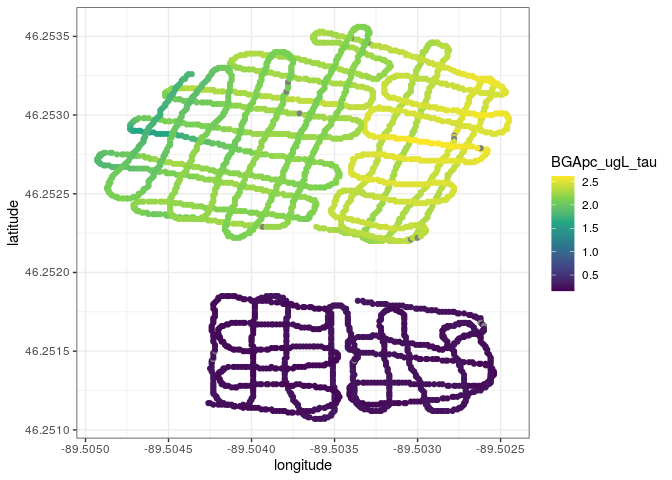
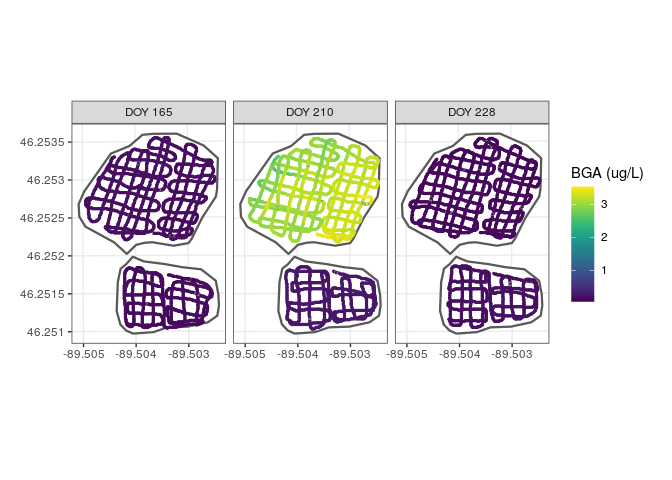
add spatial data plotting function

diff --git a/README.md b/README.md
@@ -105,13 +105,11 @@ plot_fig5(
 ### Plot example spatial data (TO DO: add function to package)
 
 ``` r
-ex_spatial_data = flame_data %>% 
-  filter(Year == 2019 & DOY == 214)
-
-ggplot(ex_spatial_data, aes(x=longitude, y=latitude, color=BGApc_ugL_tau)) + 
-  geom_point() + 
-  theme_bw() +
-  scale_color_viridis_c()
+plot_fig2(
+  spatial_data = flame_data,
+  samples_to_plot = data.frame(Year = 2019, DOY = c(165, 210, 228), stringsAsFactors = FALSE),
+  var_cols = c("BGApc_ugL_tau")
+)
 ```
 
 <img src="man/figures/README-unnamed-chunk-5-1.png" width="100%" />
